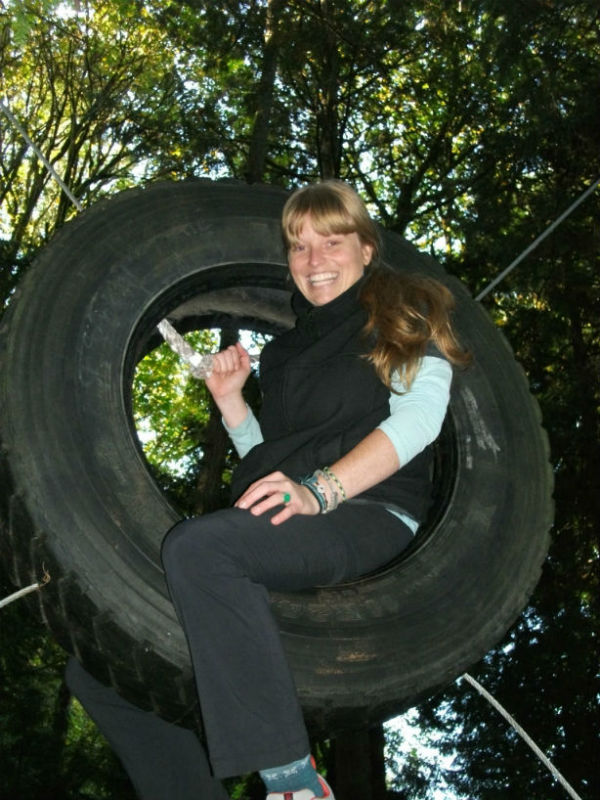
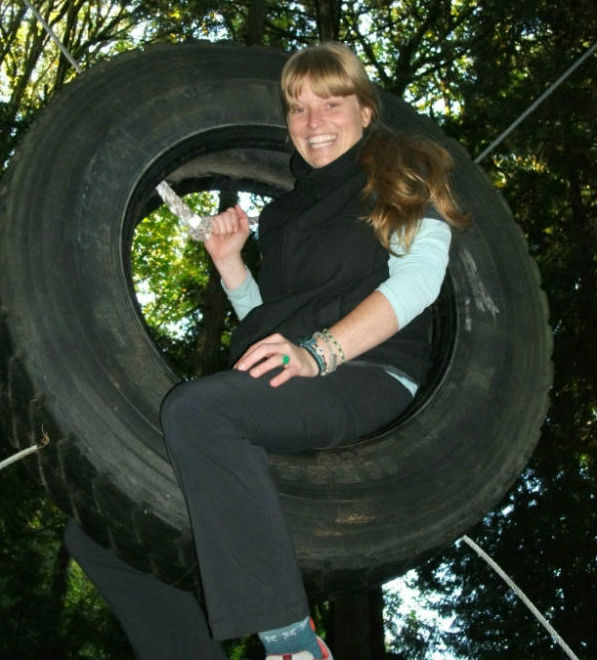
Fixed size problems on the slide images

diff --git a/js/bootstrap-modal-carousel.js b/js/bootstrap-modal-carousel.js
@@ -151,3 +151,7 @@ function closeCarousel() {
 function openCarousel() {
   document.getElementById('events-carousel').style.display = 'block';
 }
+
+var h = $(window).height();
+var scale = 0.75; // This is 75%
+$(".item").css('max-height', h * scale);

diff --git a/css/bootstrap-modal-carousel.css b/css/bootstrap-modal-carousel.css
@@ -95,10 +95,6 @@
   bottom: 0;
 }
 
-.item {
-  max-height: 818px;
-}
-
 #events-carousel {
   display: none;
 }
